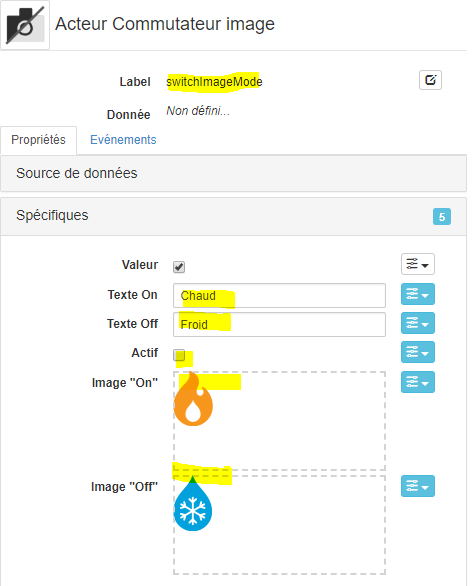
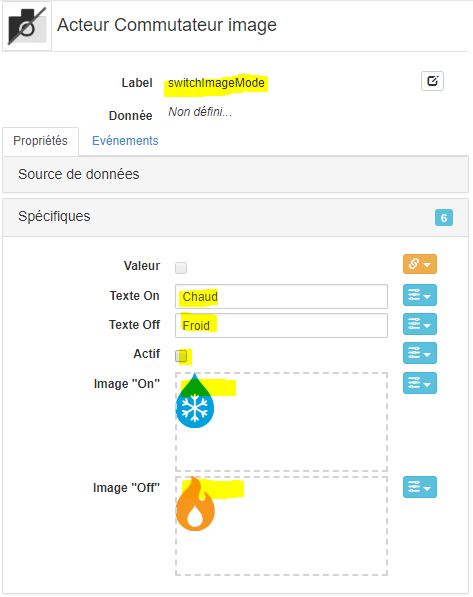
Correction du tutorial 5 suite remontés de NL

diff --git a/tutos/tuto05/index.md b/tutos/tuto05/index.md
@@ -132,7 +132,7 @@ L'objectif du tutorial est la construction d'acteurs composites permettant de vi
 7. **Sélectionner** l'acteur _toile_ <code>canvasClim</code> et **ajouter** un acteur enfant de type _commutateur image_ qui affichera le mode hiver/été
 
     * renommer le _Label_ avec <code>switchImageMode</code>
-    * récupérer les 2 images ![Hot](assets/hot.png) ![Cold](assets/cold.png)
+    * récupérer les 2 images ![Cold](assets/cold.png) ![Hot](assets/hot.png)
     * réinitialiser la propriété _Gabarit > Hauteur_ à la valeur par défaut <code>[vide]</code>
     * réinitialiser également la propriété _Gabarit > Largeur_ à la valeur par défaut <code>[vide]</code>
     * modifier la propriété _Spécifiques > Texte On_ avec le texte <code>Chaud</code>
@@ -352,7 +352,12 @@ C'est le principe de la **boite noir**, l'utilisateur veut juste ajouter un comp
 
 ## Composite Metier lié à une ressource du REDY
 
-Plutôt que de modifier le composite éxistant, nous allons créer un nouveau composite
+Nous pourrions transformer le composte précédemnt créé en composite métier, cad capable d'exploiter directement une ressource de type <code>Régulation ventilo-convecteur 2T</code>. Mais, plutôt que de modifier le composite éxistant, nous allons en créer un nouveau, **métier**, capable d'exploiter directement la ressource ci-dessus. Bien sur, il contiendra et exploitera dans ses acteurs internes, le composite précédemment créé.
+
+Notre **objectif** ici est double:
+
+* **Montrer** comment les acteurs composites peuvent s'intégrer de façon **modulaire**
+* **Conserver** l'acteur composite initial **standard** pour permettre sa configuration directement dans une scène, voir dans un autre composite métier, lorsque la source de donnée n'est pas une ressource de type <code>Régulation ventilo-convecteur 2T</code>
 
 1. **Sélectionner** l'onglet composites et **créer** un nouvel acteur composite
 
@@ -412,12 +417,11 @@ Plutôt que de modifier le composite éxistant, nous allons créer un nouveau co
 
         Le caratere _!_ signifie <code>not</code> et va donc inverser la valeur de la ressource, ce qui est le comportement souhaité
 
-    * lier la propriété _Spécifiques > Température consigne_ en Source de données avec le chemin <code>VC_At</code>, la propriété _valeur_ et la liaison en lecture _Rafraichie_
+    * lier la propriété _Spécifiques > Température consigne_ en Source de données avec le chemin <code>VC_Sp</code>, la propriété _valeur_ et la liaison en lecture _Rafraichie_
 
     _Remarque:_ la consigne est accessible en écriture mais ne sera pas commandé par l'acteur _compositeClim2_. C'est un choix que nous avons fait quant au périmêtre métier du composite. Nous commenderons la consigne depuis la scène, la liaison n'est donc pas autorisée en écriture.
 
-    * lier la propriété _Spécifiques > Température ambiante_ en Source de données avec le chemin <code>VC_Sp</code>, la propriété _valeur_ et la liaison en lecture _Rafraichie_
-    VC_Sp
+    * lier la propriété _Spécifiques > Température ambiante_ en Source de données avec le chemin <code>VC_At</code>, la propriété _valeur_ et la liaison en lecture _Rafraichie_
 
     * lier la propriété _Spécifiques > Mode_ en Source de données avec le chemin <code>VC_Cold</code>, la propriété _valeur_ et la liaison en lecture _Rafraichie_
 
@@ -484,7 +488,7 @@ Nous avons configuré la scène avec 2 intances de composite _compositeClim_. Ho
     * définir la propriété _Spécifiques > Bar_ avec la sélection <code>Avant curseur</code>
     * définir la propriété _Spécifiques > Couleur bar_ avec la couleur <code>#ff8000</code>
     * définir la propriété _Spécifiques > Interval_ avec la valeur <code>0.5</code>
-    * lier la propriété  _Spécifiques > Valeur_ en source de donnée avec le chemin <code>VC_At</code>, la propriété _valeur_ et la liaison en lecture _Rafraichie_ et **écriture**
+    * lier la propriété  _Spécifiques > Valeur_ en source de donnée avec le chemin <code>VC_Sp</code>, la propriété _valeur_ et la liaison en lecture _Rafraichie_ et **écriture**
     ![bindDatasource3](assets/bindDatasource3.png)
 
 7. **Dupliquer** l'acteur <code>sliderEast</code>

diff --git a/tutos/tuto06/index.md b/tutos/tuto06/index.md
@@ -292,3 +292,76 @@ La console de log est vite remplie des événements générés. Nous allons ajou
 Il est parfois trés utile de pouvoir débugger une fonction javascript pour résoudre un dysfonctionnement ou une erreur.
 SynApp une application qui s'éxécute dans le navigateur et nous pouvons donc utiliser ses fonctionnalités avancés pour débugger le code éxécuté dans SynApp !
 La plupart des navigateurs modernes possèdent des fonctions de débugging. Nous utiliserons ici **Chrome** pour les besoins de ce tutorial
+
+1. **Exécuter** la SynApp et appuyer sur **F12** pour ouvrir la console _Developer Tools_
+
+    _Remarque:_ dans la mesure du possible, il est préferrable d'utiliser 2 écrans: le premier pour la SynApp, le second pour la console _Developer Tools_. Configurer le _Dock side_ pour choisir le mode d'affichage
+
+    ![tools_dock](assets/tools_dock.png)
+
+2. **Sélectionner** l'onglet _Sources > Network_ de la console
+    ![tools_sources](assets/tools_sources.png)
+
+3. Pour info, le dossier _appria.wit.fr_ contient le runtime du SynApps qui ne peut pas être exploité
+
+4. **Ouvrir** le second dossier _synapps-scripts_. Celui-ci nous intéresse car il contient tous les événements implémenté dans la SynApp ! Ils sont classés par nom relativement explicites: _onClick_, _onInit_, _onMouseDown_, _onMouseEnter_, _onMouseLeave_, _onMouseUp_, _onRender_
+
+    ![tools_events](assets/tools_events.png)
+
+5. **Ouvrir**  le dossier des événements _onInit_ qui contien la fonction javascript implémenté par l'événement _Ev. "Initialisation"_ de l'acteur <code>textareaOutput</code>
+
+    ![tools_js](assets/tools_js.png)
+
+    _Remarque:_ une SynApp peut avoir beaucoup de scripts définis dans plusieurs acteurs et scènes. Un formalisme est donc défini afin d'**identifier rapidement le script recherché**:
+
+    Dans <code>actor-textarea-textareaOutput-sceneEvents.js</code>
+
+    * <code>actor</code> signifie que le script est associé à un objet de type acteur
+    * <code>textarea</code> correspond au type _zone de texte_ de l'acteur (en anglais)
+    * <code>textareaOutput</code> correspond au label de l'objet
+    * <code>sceneEvents</code> correspond à la scène de l'objet
+
+6. **Ouvrir** le dossier des événements _onClick_ qui contien les 4 fonctions javascript implémenté par l'événement _Ev. "Clic souris"_ dans la scène
+
+    ![tools_js](assets/tools_onclick.png)
+
+    Le **formalisme de nommage** des évènements permet d'**identifier aisemment** les 4 fonctions et les acteurs auquelles elles se rapportent
+
+7. **Sélectionner** la fonction javascript <code>actor-buttonPush-buttonPushClear-sceneEvents.js</code>. Son contenu s'affiche dans la zone centrale
+
+    ![tools_fxclick](assets/tools_fxclick.png)
+
+8. **Ajouter** un point d'arret sur la ligne 4 en cliquant sur celle-ci
+
+    ![tools_beakpoint](assets/tools_beakpoint.png)
+
+9. **Cliquer** sur le bouton de nettoyage de la SynApp pour éxécuter l'événement _Ev "Clic souris"_. Le code javascript est alors éxécuté jusqu'au point d'arrêt et le navigateur indique _Paused in debugger_
+
+    ![tools_debug](assets/tools_debug.png)
+    ![tools_paused](assets/tools_paused.png)
+
+10. **Ouvrir** la console si pas encore ouverte
+
+    ![tools_debug](assets/tools_console.png)
+
+11. **copier** le javascript suivant dans la console + entrée
+
+    ```javascript
+    textareaOutput.get('value')
+    ```
+    Le contenu de la propriété _Valeur_ est alors affichée dans la console !
+
+    ![tools_debug](assets/tools_console2.png)
+
+    * La totalité des propriétés de l'acteur peuvent être évaluées de la même manière. Pour connaitre la couleur de fond, copier dans la console:
+
+        ```javascript
+        textareaOutput.get('backgroundColor')
+        ```
+
+    * Vous pouvez également modifier les valeurs des propriétés. Pour modifier la couleur de fond de l'acteur en jaune, copier dans la console
+
+        ```javascript
+        textareaOutput.set('backgroundColor', 'yellow')
+        ```
+        puis appuyer sur **F8** pour sortir du point d'arrêt
